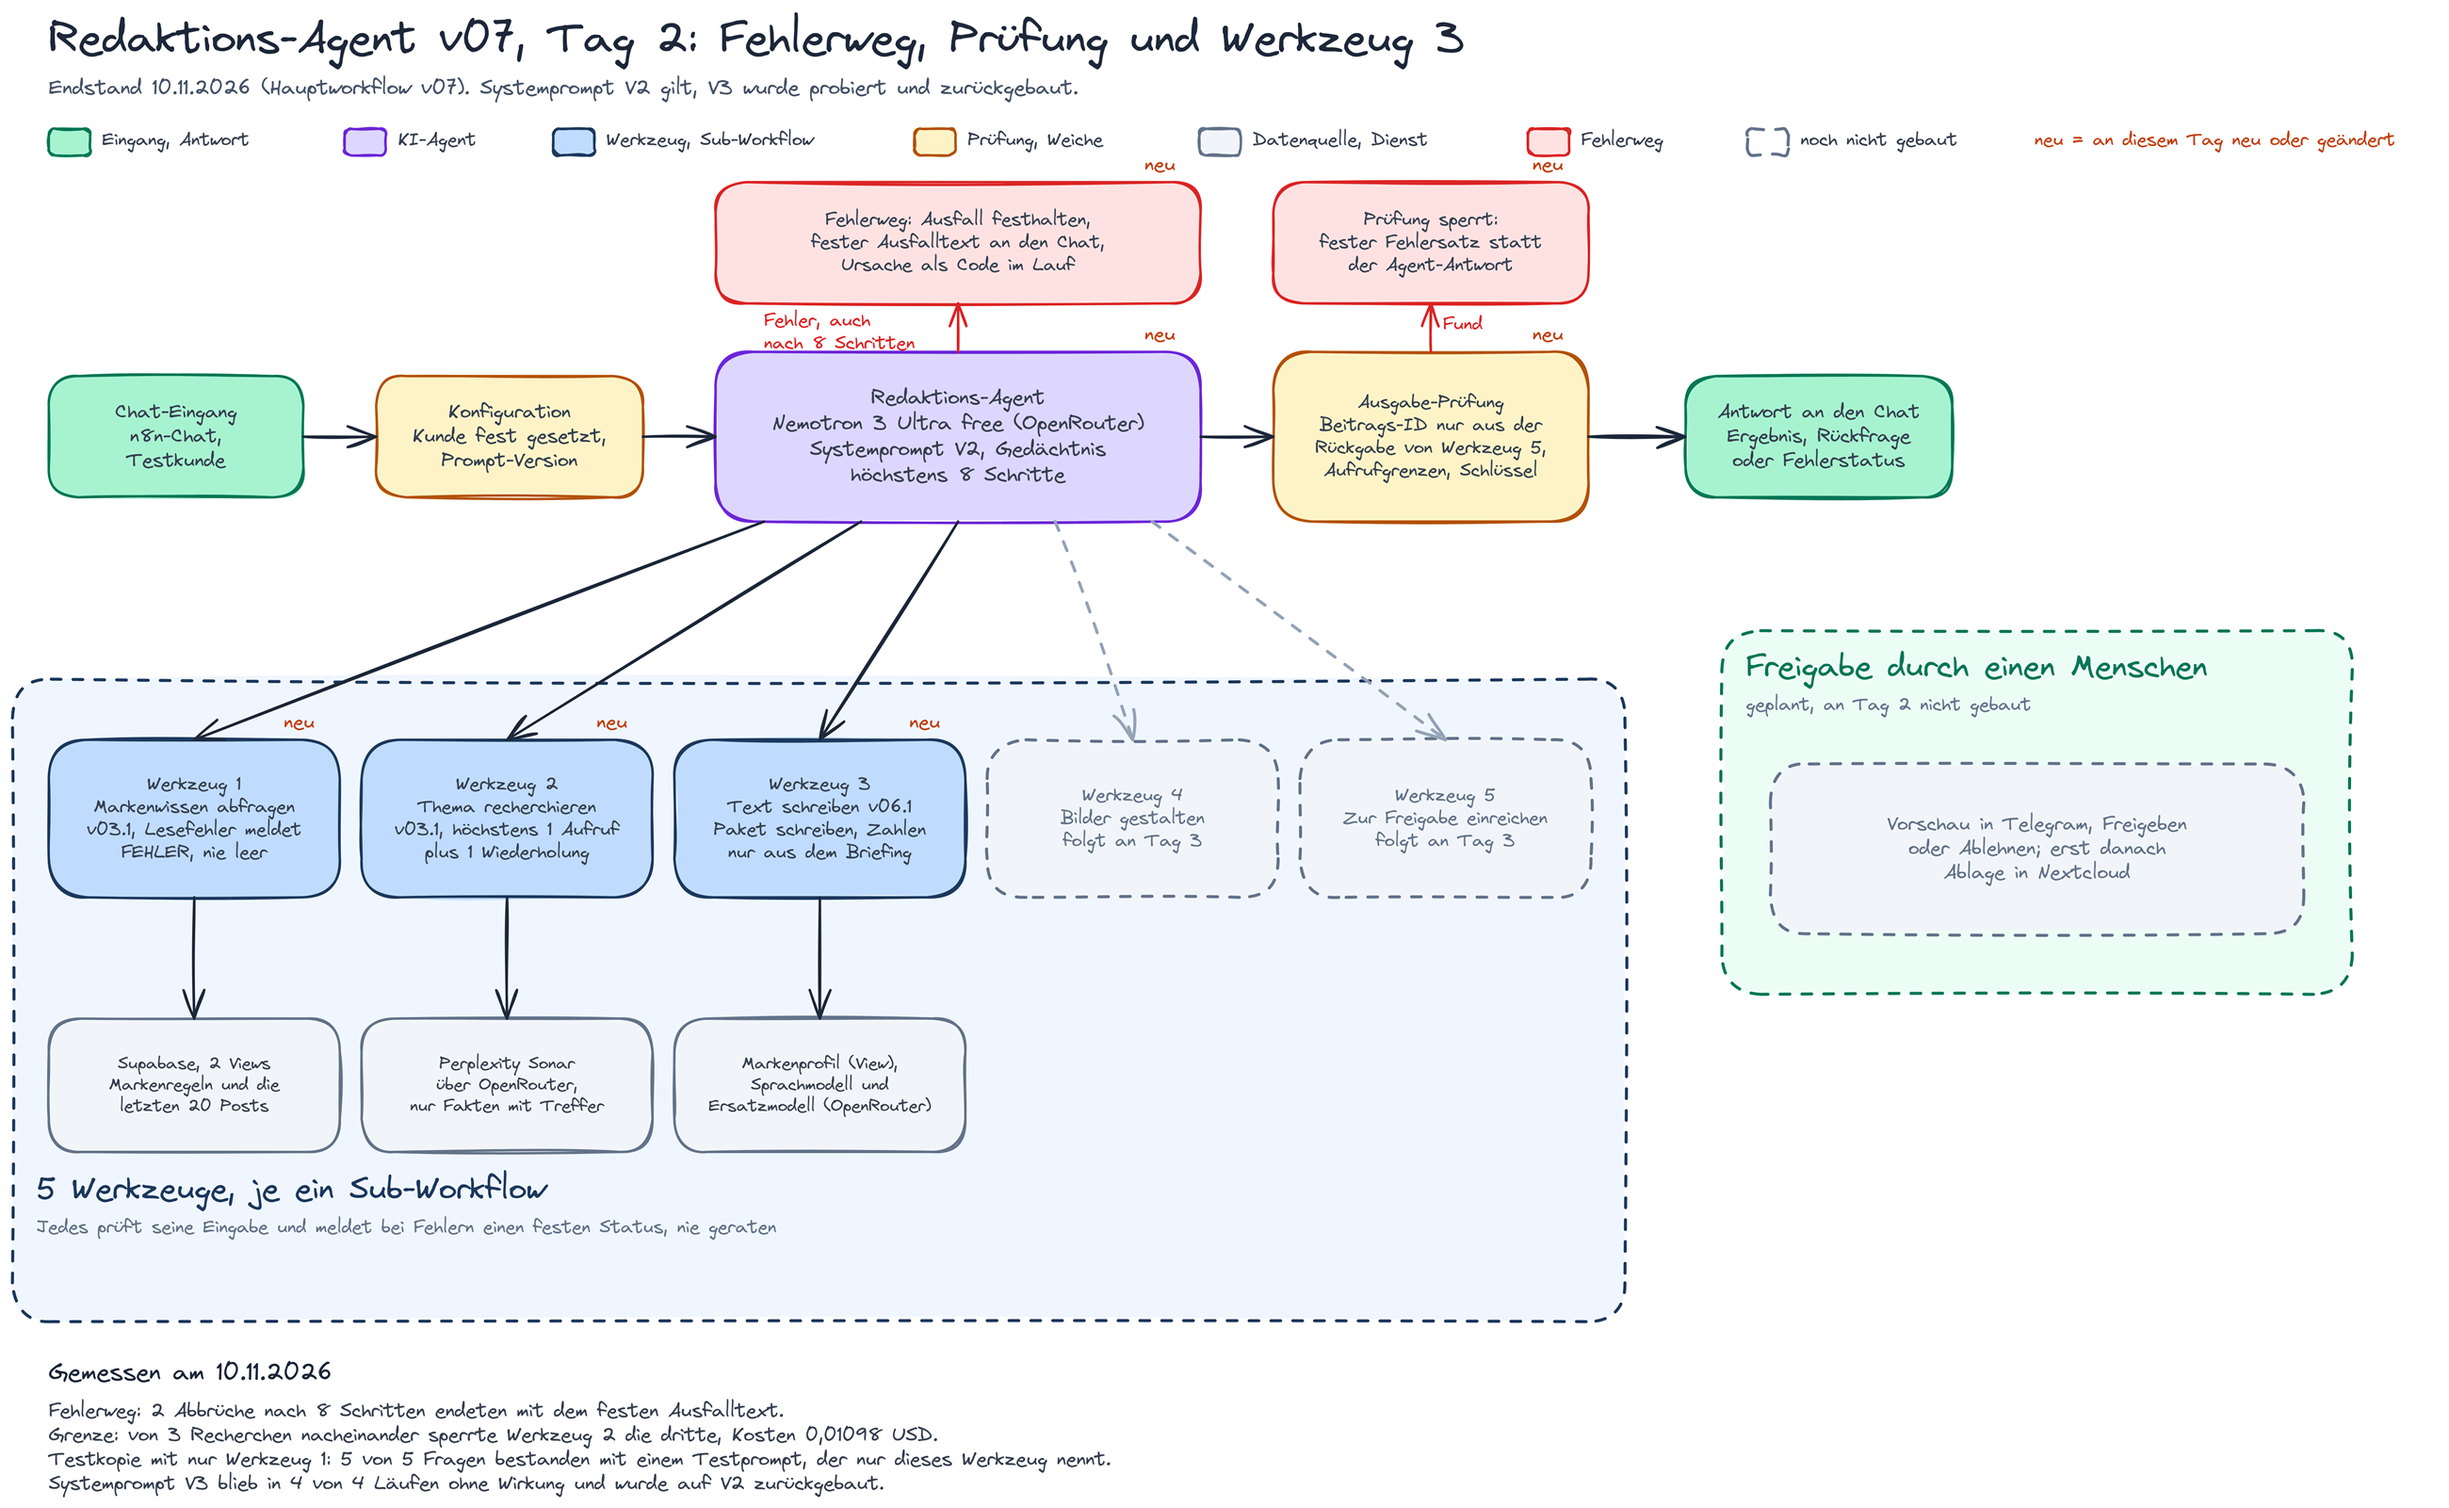
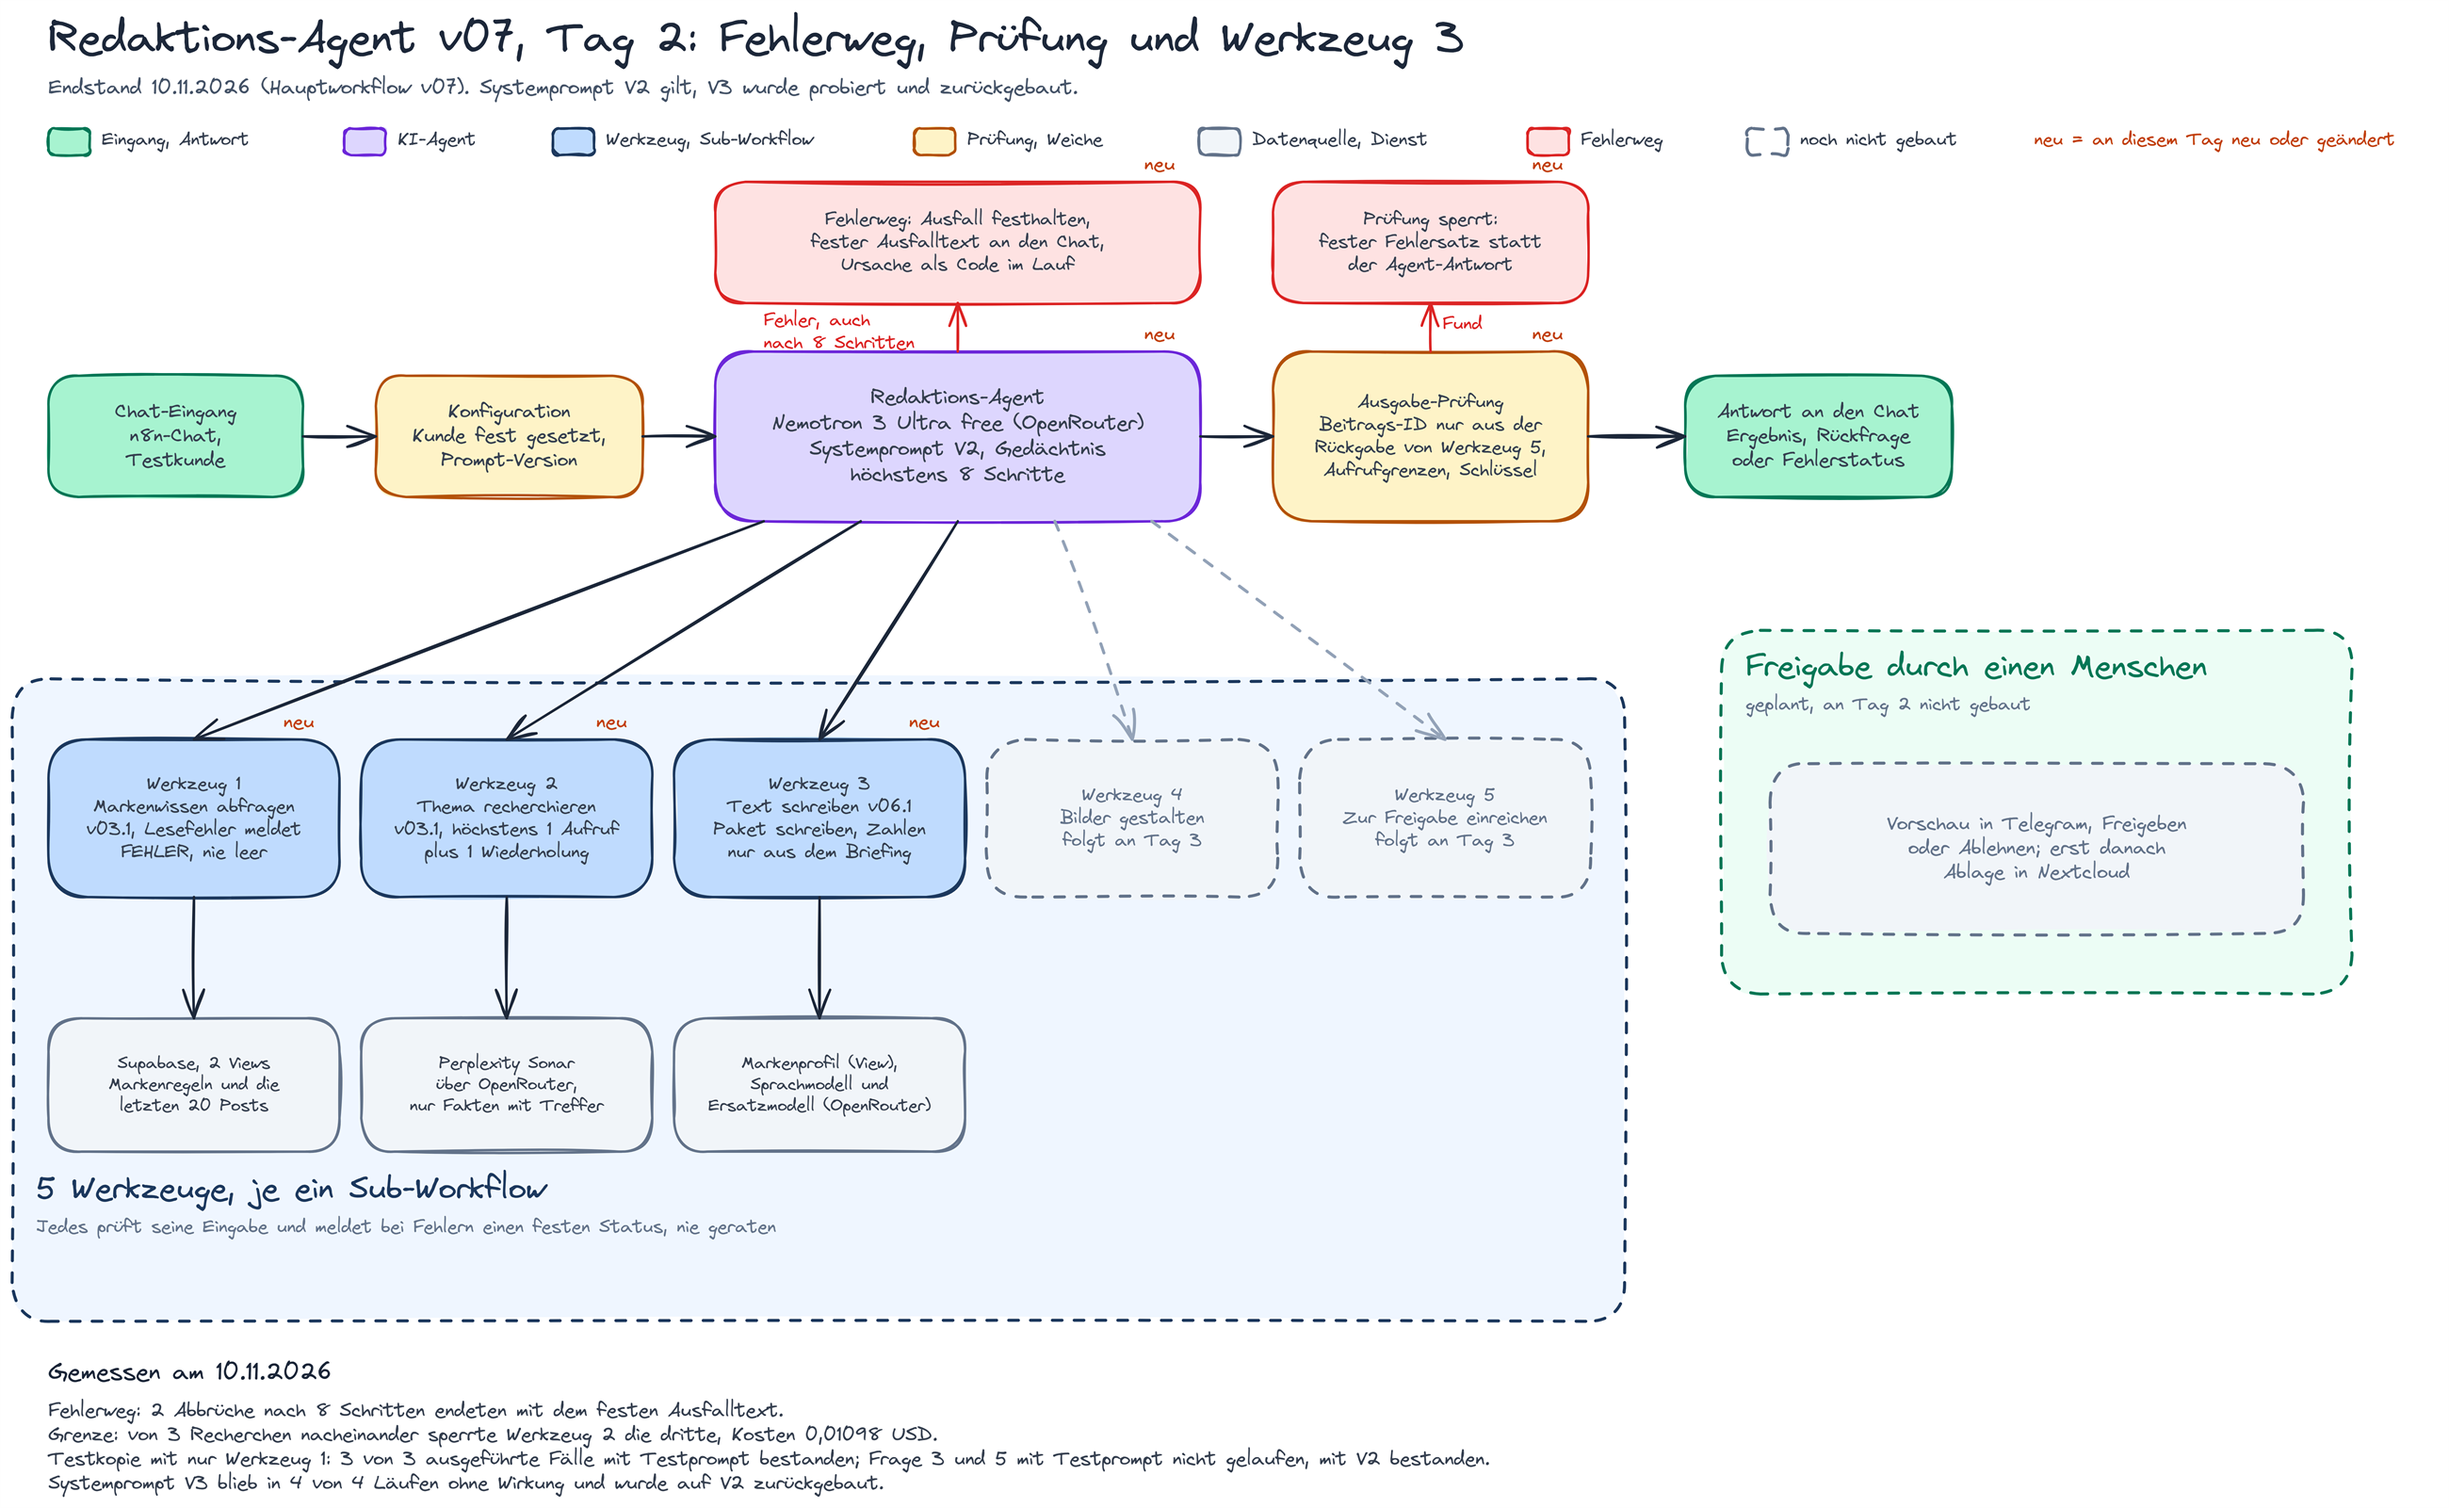
Tagesseite 2 und Plan v07: 3 von 3 mit Testprompt statt 5 von 5, Tagesseite 1 verweist aufs Archiv

diff --git a/docs/w08t02.html b/docs/w08t02.html
@@ -35,7 +35,7 @@
 </div>
 </div>
 <dl aria-label="Kennzahlen W08T02" class="messleiste">
-<div><dt>Werkzeuge</dt><dd>3 von 5<small>Werkzeug 3 Text schreiben neu</small></dd></div><div><dt>Systemprompt</dt><dd>V2<small>V3 probiert, ohne Wirkung, zurückgebaut</small></dd></div><div><dt>Testreihe 1 Werkzeug</dt><dd>5 von 5<small>Endstand mit Testprompt</small></dd></div><div><dt>Worst Case</dt><dd>0,01098 USD<small>3 Recherchen, die 3. gesperrt</small></dd></div>
+<div><dt>Werkzeuge</dt><dd>3 von 5<small>Werkzeug 3 Text schreiben neu</small></dd></div><div><dt>Systemprompt</dt><dd>V2<small>V3 probiert, ohne Wirkung, zurückgebaut</small></dd></div><div><dt>Testreihe 1 Werkzeug</dt><dd>3 von 3<small>ausgeführte Fälle mit Testprompt bestanden; Frage 3 und 5 mit Testprompt nicht gelaufen, mit V2 bestanden</small></dd></div><div><dt>Worst Case</dt><dd>0,01098 USD<small>3 Recherchen, die 3. gesperrt</small></dd></div>
 </dl>
 <div class="knoepfe">
 <a class="knopf zweit" href="w08t01.html">Vorheriger Tag: Tag 1 <span aria-hidden="true" class="pfeil">←</span></a>
@@ -135,7 +135,7 @@
 </tbody>
 </table>
 </div>
-<p><strong>Endstand:</strong> 5 von 5 mit dem Testprompt (Frage 3 und 5 aus den Läufen mit V2). Der Testprompt nennt nur das angebundene Werkzeug. Bei V2 und V3 forderte das Modell Werkzeuge an, die nicht angebunden waren; n8n nahm diese Anforderung nicht in den Verlauf auf, das Modell fragte erneut, bis die Grenze von 8 Schritten griff. Welche der 3 Änderungen am Testprompt wirkt, ist nicht einzeln gemessen, und je Frage lief nur 1 Lauf. Daraus folgte der Plan für Tag 3: zuerst alle Werkzeuge bauen, dann den Hauptagenten messen.</p>
+<p><strong>Endstand:</strong> 3 von 3 ausgeführten Fällen mit dem Testprompt bestanden (Frage 1, 2 und 4); Frage 3 und 5 sind mit dem Testprompt nicht gelaufen und mit V2 bestanden. Der Testprompt nennt nur das angebundene Werkzeug. Bei V2 und V3 forderte das Modell Werkzeuge an, die nicht angebunden waren; n8n nahm diese Anforderung nicht in den Verlauf auf, das Modell fragte erneut, bis die Grenze von 8 Schritten griff. Welche der 3 Änderungen am Testprompt wirkt, ist nicht einzeln gemessen, und je Frage lief nur 1 Lauf. Daraus folgte der Plan für Tag 3: zuerst alle Werkzeuge bauen, dann den Hauptagenten messen.</p>
 <p>Wortlaut: <a href="https://github.com/MinkeAutomation/redaktions-agent/blob/main/archiv/prompts/20261110_Testkopie-Prompt-1-Werkzeug_V2-T1.md">Testprompt im Archiv</a>, <a href="https://github.com/MinkeAutomation/redaktions-agent/blob/main/archiv/prompts/20261110_System-Prompt-Redaktions-Agent_V3.md">Systemprompt V3</a>. Export der Testkopie: <a href="https://github.com/MinkeAutomation/redaktions-agent/blob/main/workflows/test/test-redaktions-agent-1-werkzeug.json">test-redaktions-agent-1-werkzeug.json</a>.</p>
 </section>
 

diff --git a/docs/w08t01.html b/docs/w08t01.html
@@ -86,7 +86,7 @@
 </tbody>
 </table>
 </div>
-<p>Alle Stände mit Uhrzeit stehen in <a href="https://github.com/MinkeAutomation/redaktions-agent/blob/main/versionen.md">versionen.md</a>. Die Exporte im Repo zeigen den Stand vom 11.11.2026; die Fassungen dieses Tages sind dort beschrieben, nicht als eigene Datei abgelegt.</p>
+<p>Alle Stände mit Uhrzeit stehen in <a href="https://github.com/MinkeAutomation/redaktions-agent/blob/main/versionen.md">versionen.md</a>. Die Exporte im Repo zeigen den Stand vom 11.11.2026; die Fassungen dieses Tages liegen als eigene Dateien im <a href="https://github.com/MinkeAutomation/redaktions-agent/blob/main/archiv/README.md">Archiv</a> und sind in versionen.md je Zeile verlinkt.</p>
 <figure id="plan"><a href="plan/plan-w08t01-v01.png"><img alt="Plan v01: Chat-Eingang, Konfiguration, Redaktions-Agent mit Nemotron 3 Ultra free, Systemprompt V1 und Gedächtnis, Ausgabe-Prüfung und Antwort an den Chat. Darunter Werkzeug 1 Markenwissen mit 2 Views in Supabase und Werkzeug 2 Recherche mit Perplexity Sonar, Werkzeug 3 bis 5 gestrichelt als noch nicht gebaut. Rechts die Freigabe durch einen Menschen, gestrichelt als geplant. Oben rot: noch kein Fehlerweg am Agenten." height="1575" src="bilder/w08t01-plan-v01.png" width="2600"/></a><figcaption><strong>Plan v01, Endstand 09.11.2026.</strong> Gestrichelt ist noch nicht gebaut, „neu“ markiert, was an diesem Tag entstand. <a href="plan/plan-w08t01-v01.png">Volle Auflösung</a>, <a href="https://github.com/MinkeAutomation/redaktions-agent/blob/main/docs/plan/plan-w08t01-v01.excalidraw">Excalidraw-Datei</a>.</figcaption></figure>
 <figure><a href="bilder/w08t01-hauptworkflow-v01.png"><img alt="Hauptworkflow Redaktions-Agent v01 in n8n, dunkel: Kopfnotizen, Bereiche Eingang, KI und Verarbeitung, am Agenten das Modell, das Gedächtnis und die Werkzeuge Markenwissen und Recherche" height="665" src="bilder/w08t01-hauptworkflow-v01.png" width="1410"/></a><figcaption>Hauptworkflow v01 mit Werkzeug 1 und 2. Die Karten „Setup-Checkliste“ und „Plattform-Hinweise“ sind ausgeschnitten. Klick vergrößert.</figcaption></figure>
 <div class="bildpaar">
